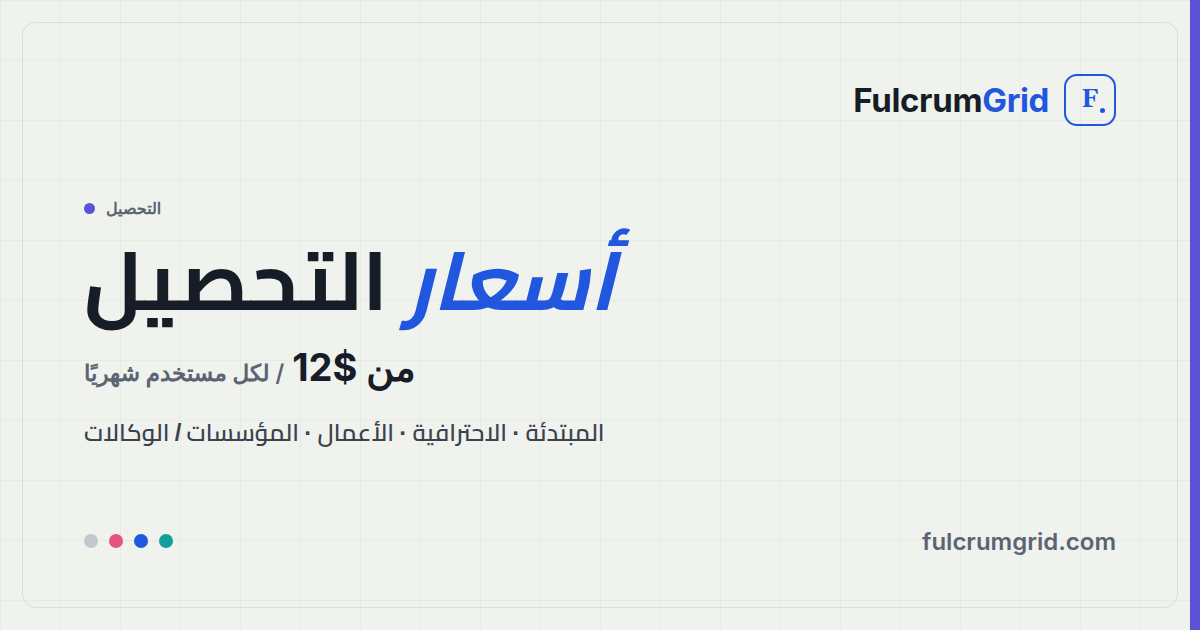
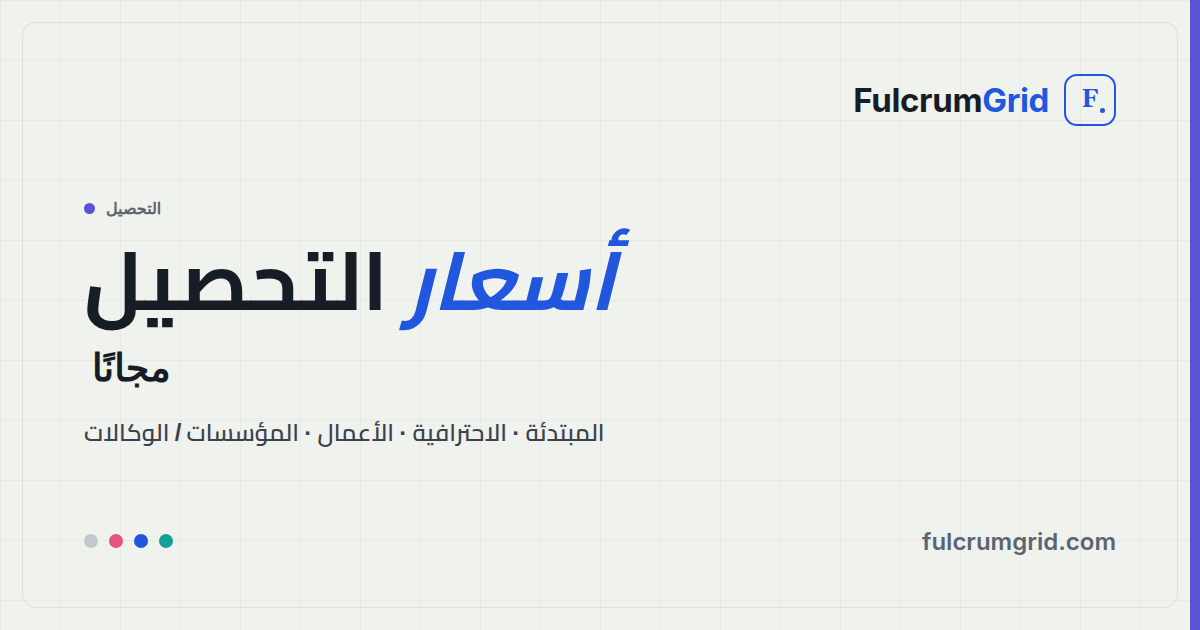
Propagate real pricing to product pages, pricing index, llms.txt & OG
The pricing pages were fixed earlier, but the same numbers appear in several
other surfaces that still showed the old values. Bring them all in line with
the product code catalogs:

- products/hr-suite (EN+AR): teaser SAR 15 -> SAR 5, "Essentials plan" ->
  "Starter plan", bullets to Starter modules, JSON-LD Offer price 15 -> 5.
- products/collection (EN+AR): teaser was a stale $12/user (USD); now "Free"
  (Starter), tagline notes paid plans from SAR 370/mo, JSON-LD 12 USD -> 0 SAR.
- pricing/index (EN+AR): HR card SAR 15 -> SAR 5 with Starter bullets;
  Collection card $12/user -> Free; billing FAQ/note no longer says
  "per user" (no app is per-user — flat, per seat, or per workspace).
- llms.txt: HR + Collection plan names/prices updated.
- gen_og.py + regenerated og-pricing-{hr-suite,collection}{,-ar}.png.

Command Center unchanged (already correct at SAR 490).

Claude-Session: https://claude.ai/code/session_01Bzy4vRqsyWF18wuk7NZLPd

Changed region(s): [[0.0617, 0.5429, 0.3392, 0.6333]]

diff --git a/ar/pricing/index.html b/ar/pricing/index.html
@@ -67,7 +67,7 @@
       {"@type": "Question", "name": "هل يمكنني البدء بتطبيق واحد فقط؟", "acceptedAnswer": {"@type": "Answer", "text": "نعم. خطة المبتدئة مصمّمة لتطبيق واحد — اختر مركز القيادة أو التحصيل أو الموارد البشرية وأضِف الباقي متى شئت."}},
       {"@type": "Question", "name": "هل يمكنني إضافة تطبيقات لاحقًا؟", "acceptedAnswer": {"@type": "Answer", "text": "بالتأكيد. اعتمد أي تطبيق من FulcrumGrid متى شئت — ابدأ بواحد وأضِف المزيد مع الوقت، بالوتيرة التي تناسبك."}},
       {"@type": "Question", "name": "هل توجد تجربة مجانية؟", "acceptedAnswer": {"@type": "Answer", "text": "كل خطة تشمل تجربة مجانية لمدة ١٤ يومًا بكامل الميزات، دون الحاجة إلى بطاقة ائتمان للبدء."}},
-      {"@type": "Question", "name": "كيف تعمل الفوترة؟", "acceptedAnswer": {"@type": "Answer", "text": "تُحتسب الخطط لكل مستخدم شهريًا. انتقل إلى الدفع السنوي لتوفّر ٢٠٪. يمكنك تغيير الخطة أو عدد المستخدمين في أي وقت."}},
+      {"@type": "Question", "name": "كيف تعمل الفوترة؟", "acceptedAnswer": {"@type": "Answer", "text": "لكل تطبيق طريقة فوترة شهرية خاصة به — ثابتة لكل مؤسسة أو لكل مقعد أو لكل مساحة عمل. انتقل إلى الدفع السنوي لتوفّر ٢٠٪. يمكنك تغيير الخطة في أي وقت."}},
       {"@type": "Question", "name": "هل تقدّمون خصومات؟", "acceptedAnswer": {"@type": "Answer", "text": "نقدّم أسعارًا خاصة للجمعيات غير الربحية والمؤسسات التعليمية والشركات الناشئة المبكرة. تواصل معنا لنساعدك في إيجاد الأنسب."}}
     ]
   }
@@ -161,7 +161,7 @@
               <div class="price-name">التحصيل</div>
               <p class="price-tagline">الذمم المدينة والمدفوعات تحت السيطرة.</p>
             </div>
-            <div class="price-amount"><span class="per">من </span><span class="num" data-amt="12" data-base="USD">$12</span><span class="per">/ لكل مستخدم شهريًا</span></div>
+            <div class="price-amount"><span class="num">مجانًا</span></div>
             <ul class="price-features">
               <li>تتبّع الفواتير ودفتر الأستاذ</li>
               <li>تذكيرات وخطط آلية</li>
@@ -176,17 +176,17 @@
               <div class="price-name">منظومة الموارد البشرية</div>
               <p class="price-tagline">عمليات الأفراد من التعيين إلى التقاعد.</p>
             </div>
-            <div class="price-amount"><span class="per">من </span><span class="num" data-amt="15" data-base="SAR">SAR 15</span><span class="per">/ لكل مقعد شهريًا</span></div>
+            <div class="price-amount"><span class="per">من </span><span class="num" data-amt="5" data-base="SAR">SAR 5</span><span class="per">/ لكل مقعد شهريًا</span></div>
             <ul class="price-features">
-              <li>سجلّات الموظفين والتأهيل</li>
-              <li>الرواتب وتتبّع الوقت</li>
-              <li>الأداء والتقييمات</li>
+              <li>الموارد البشرية الأساسية والإجازات</li>
+              <li>النفقات وخطابات الموارد البشرية</li>
+              <li>الإعلانات والتقدير</li>
               <li>دعم عبر البريد</li>
             </ul>
             <a class="btn btn-outline btn-lg" href="/ar/pricing/hr-suite/">اطّلع على الخطط</a>
           </div>
         </div>
-        <p class="price-note">لكل تطبيق طريقة تسعير خاصة به — ثابت أو لكل مقعد أو لكل مستخدم. الدفع السنوي يوفّر ٢٠٪. كل تطبيق يشمل تجربة مجانية لمدة ١٤ يومًا.</p>
+        <p class="price-note">لكل تطبيق طريقة تسعير خاصة به — ثابت أو لكل مقعد أو لكل مساحة عمل. الدفع السنوي يوفّر ٢٠٪. كل تطبيق يشمل تجربة مجانية لمدة ١٤ يومًا.</p>
       </div>
     </section>
 
@@ -244,7 +244,7 @@
           <details class="faq-item"><summary>هل يمكنني البدء بتطبيق واحد فقط؟</summary><p>نعم. كل تطبيق له سعره الخاص، فيمكنك الاشتراك في مركز القيادة أو التحصيل أو الموارد البشرية وحده وإضافة الباقي متى شئت.</p></details>
           <details class="faq-item"><summary>هل يمكنني إضافة تطبيقات لاحقًا؟</summary><p>بالتأكيد. اعتمد أي تطبيق من FulcrumGrid متى شئت — ابدأ بواحد وأضِف المزيد مع الوقت، بالوتيرة التي تناسبك.</p></details>
           <details class="faq-item"><summary>هل توجد تجربة مجانية؟</summary><p>كل خطة تشمل تجربة مجانية لمدة ١٤ يومًا بكامل الميزات، دون الحاجة إلى بطاقة ائتمان للبدء.</p></details>
-          <details class="faq-item"><summary>كيف تعمل الفوترة؟</summary><p>تُحتسب الخطط لكل مستخدم شهريًا. انتقل إلى الدفع السنوي لتوفّر ٢٠٪. يمكنك تغيير الخطة أو عدد المستخدمين في أي وقت.</p></details>
+          <details class="faq-item"><summary>كيف تعمل الفوترة؟</summary><p>لكل تطبيق طريقة فوترة شهرية خاصة به — ثابتة لكل مؤسسة أو لكل مقعد أو لكل مساحة عمل. انتقل إلى الدفع السنوي لتوفّر ٢٠٪. يمكنك تغيير الخطة في أي وقت.</p></details>
           <details class="faq-item"><summary>هل تقدّمون خصومات؟</summary><p>نقدّم أسعارًا خاصة للجمعيات غير الربحية والمؤسسات التعليمية والشركات الناشئة المبكرة. تواصل معنا لنساعدك في إيجاد الأنسب.</p></details>
         </div>
       </div>

diff --git a/pricing/index.html b/pricing/index.html
@@ -64,7 +64,7 @@
       {"@type": "Question", "name": "Can I start with just one app?", "acceptedAnswer": {"@type": "Answer", "text": "Yes. The Starter plan is designed for a single app — pick Command Center, Collection, or HR Suite and add the rest whenever you're ready."}},
       {"@type": "Question", "name": "Can I add apps later?", "acceptedAnswer": {"@type": "Answer", "text": "Absolutely. Adopt any FulcrumGrid app whenever you're ready — start with one and add more over time, at your own pace."}},
       {"@type": "Question", "name": "Is there a free trial?", "acceptedAnswer": {"@type": "Answer", "text": "Every plan includes a 14-day free trial with full features. No credit card required to start."}},
-      {"@type": "Question", "name": "How does billing work?", "acceptedAnswer": {"@type": "Answer", "text": "Plans are billed per user, per month. Switch to annual billing to save 20%. You can change plans or user counts at any time."}},
+      {"@type": "Question", "name": "How does billing work?", "acceptedAnswer": {"@type": "Answer", "text": "Each app is billed monthly its own way — flat per organization, per seat, or per workspace. Switch to annual billing to save 20%. You can change plans at any time."}},
       {"@type": "Question", "name": "Do you offer discounts?", "acceptedAnswer": {"@type": "Answer", "text": "We offer special pricing for nonprofits, educational institutions, and early-stage startups. Reach out and we'll help find the right fit."}}
     ]
   }
@@ -158,7 +158,7 @@
               <div class="price-name">Collection</div>
               <p class="price-tagline">Receivables and payments, handled.</p>
             </div>
-            <div class="price-amount"><span class="per">from </span><span class="num" data-amt="12" data-base="USD">$12</span><span class="per">/ user / month</span></div>
+            <div class="price-amount"><span class="num">Free</span></div>
             <ul class="price-features">
               <li>Invoice &amp; ledger tracking</li>
               <li>Automated reminders &amp; plans</li>
@@ -173,17 +173,17 @@
               <div class="price-name">HR Suite</div>
               <p class="price-tagline">People operations, hire to retire.</p>
             </div>
-            <div class="price-amount"><span class="per">from </span><span class="num" data-amt="15" data-base="SAR">SAR 15</span><span class="per">/ seat / month</span></div>
+            <div class="price-amount"><span class="per">from </span><span class="num" data-amt="5" data-base="SAR">SAR 5</span><span class="per">/ seat / month</span></div>
             <ul class="price-features">
-              <li>Employee records &amp; onboarding</li>
-              <li>Payroll &amp; time tracking</li>
-              <li>Performance &amp; reviews</li>
+              <li>Core HR &amp; time off</li>
+              <li>Expenses &amp; HR letters</li>
+              <li>Announcements &amp; recognition</li>
               <li>Email support</li>
             </ul>
             <a class="btn btn-outline btn-lg" href="/pricing/hr-suite/">See plans</a>
           </div>
         </div>
-        <p class="price-note">Each app is priced its own way — flat, per seat, or per user. Annual billing saves 20%. Every app includes a 14-day free trial.</p>
+        <p class="price-note">Each app is priced its own way — flat, per seat, or per workspace. Annual billing saves 20%. Every app includes a 14-day free trial.</p>
       </div>
     </section>
 
@@ -241,7 +241,7 @@
           <details class="faq-item"><summary>Can I start with just one app?</summary><p>Yes. Every app is priced on its own, so you can subscribe to just Command Center, Collection, or HR Suite and add the rest whenever you're ready.</p></details>
           <details class="faq-item"><summary>Can I add apps later?</summary><p>Absolutely. Adopt any FulcrumGrid app whenever you're ready — start with one and add more over time, at your own pace.</p></details>
           <details class="faq-item"><summary>Is there a free trial?</summary><p>Every plan includes a 14-day free trial with full features. No credit card required to start.</p></details>
-          <details class="faq-item"><summary>How does billing work?</summary><p>Plans are billed per user, per month. Switch to annual billing to save 20%. You can change plans or user counts at any time.</p></details>
+          <details class="faq-item"><summary>How does billing work?</summary><p>Each app is billed monthly its own way — flat per organization, per seat, or per workspace. Switch to annual billing to save 20%. You can change plans at any time.</p></details>
           <details class="faq-item"><summary>Do you offer discounts?</summary><p>We offer special pricing for nonprofits, educational institutions, and early-stage startups. Reach out and we'll help find the right fit.</p></details>
         </div>
       </div>

diff --git a/ar/products/hr-suite/index.html b/ar/products/hr-suite/index.html
@@ -71,7 +71,7 @@
     "url": "https://fulcrumgrid.com/ar/products/hr-suite/",
     "image": "https://fulcrumgrid.com/assets/og/og-hr-suite.png",
     "publisher": { "@id": "https://fulcrumgrid.com/#organization" },
-    "offers": { "@type": "Offer", "price": "15", "priceCurrency": "SAR", "url": "https://fulcrumgrid.com/ar/pricing/hr-suite/" }
+    "offers": { "@type": "Offer", "price": "5", "priceCurrency": "SAR", "url": "https://fulcrumgrid.com/ar/pricing/hr-suite/" }
   }
   </script>
 </head>
@@ -149,17 +149,17 @@
         <div class="fg-priceblock">
           <div class="fg-priceblock-main">
             <p class="eyebrow">أسعار الموارد البشرية</p>
-            <div class="price-amount"><span class="num" data-amt="15" data-base="SAR">SAR 15</span><span class="per">/ لكل مقعد شهريًا</span></div>
-            <p class="price-tagline">تُحتسب لكل مقعد نشِط (خطة الأساسيات). تجربة مجانية ١٤ يومًا دون بطاقة.</p>
+            <div class="price-amount"><span class="num" data-amt="5" data-base="SAR">SAR 5</span><span class="per">/ لكل مقعد شهريًا</span></div>
+            <p class="price-tagline">تُحتسب لكل مقعد نشِط (خطة المبتدئة). تجربة مجانية ١٤ يومًا دون بطاقة.</p>
             <div class="product-hero-actions">
               <a class="btn btn-primary" href="/ar/contact/">ابدأ تجربة مجانية</a>
               <a class="btn btn-outline" href="/ar/pricing/hr-suite/">اطّلع على كل الأسعار ↗</a>
             </div>
           </div>
           <ul class="price-features">
-            <li>سجلّات الموظفين والتأهيل</li>
-            <li>الرواتب وتتبّع الوقت</li>
-            <li>الأداء والتقييمات</li>
+            <li>الموارد البشرية الأساسية والإجازات</li>
+            <li>النفقات وخطابات الموارد البشرية</li>
+            <li>الإعلانات والتقدير وفترة التجربة</li>
             <li>دعم عبر البريد</li>
           </ul>
         </div>

diff --git a/products/hr-suite/index.html b/products/hr-suite/index.html
@@ -69,7 +69,7 @@
     "url": "https://fulcrumgrid.com/products/hr-suite/",
     "image": "https://fulcrumgrid.com/assets/og/og-hr-suite.png",
     "publisher": { "@id": "https://fulcrumgrid.com/#organization" },
-    "offers": { "@type": "Offer", "price": "15", "priceCurrency": "SAR", "url": "https://fulcrumgrid.com/pricing/hr-suite/" }
+    "offers": { "@type": "Offer", "price": "5", "priceCurrency": "SAR", "url": "https://fulcrumgrid.com/pricing/hr-suite/" }
   }
   </script>
 </head>
@@ -149,17 +149,17 @@
         <div class="fg-priceblock">
           <div class="fg-priceblock-main">
             <p class="eyebrow">HR Suite pricing</p>
-            <div class="price-amount"><span class="num" data-amt="15" data-base="SAR">SAR 15</span><span class="per">/ seat / month</span></div>
-            <p class="price-tagline">Billed per active seat (Essentials plan). 14-day free trial, no card required.</p>
+            <div class="price-amount"><span class="num" data-amt="5" data-base="SAR">SAR 5</span><span class="per">/ seat / month</span></div>
+            <p class="price-tagline">Billed per active seat (Starter plan). 14-day free trial, no card required.</p>
             <div class="product-hero-actions">
               <a class="btn btn-primary" href="/contact/">Start free trial</a>
               <a class="btn btn-outline" href="/pricing/hr-suite/">See full pricing ↗</a>
             </div>
           </div>
           <ul class="price-features">
-            <li>Employee records &amp; onboarding</li>
-            <li>Payroll &amp; time tracking</li>
-            <li>Performance &amp; reviews</li>
+            <li>Core HR &amp; time off</li>
+            <li>Expenses &amp; HR letters</li>
+            <li>Announcements, recognition &amp; probation</li>
             <li>Email support</li>
           </ul>
         </div>

diff --git a/ar/products/collection/index.html b/ar/products/collection/index.html
@@ -71,7 +71,7 @@
     "url": "https://fulcrumgrid.com/ar/products/collection/",
     "image": "https://fulcrumgrid.com/assets/og/og-collection.png",
     "publisher": { "@id": "https://fulcrumgrid.com/#organization" },
-    "offers": { "@type": "Offer", "price": "12", "priceCurrency": "USD", "url": "https://fulcrumgrid.com/ar/pricing/collection/" }
+    "offers": { "@type": "Offer", "price": "0", "priceCurrency": "SAR", "url": "https://fulcrumgrid.com/ar/pricing/collection/" }
   }
   </script>
 </head>
@@ -149,8 +149,8 @@
         <div class="fg-priceblock">
           <div class="fg-priceblock-main">
             <p class="eyebrow">أسعار التحصيل</p>
-            <div class="price-amount"><span class="num" data-amt="12" data-base="USD">$12</span><span class="per">/ لكل مستخدم شهريًا</span></div>
-            <p class="price-tagline">تُحتسب لكل مستخدم. تجربة مجانية ١٤ يومًا دون بطاقة.</p>
+            <div class="price-amount"><span class="num">مجانًا</span></div>
+            <p class="price-tagline">الخطة المبتدئة مجانية — الخطط المدفوعة من SAR 370 شهريًا.</p>
             <div class="product-hero-actions">
               <a class="btn btn-primary" href="/ar/contact/">ابدأ تجربة مجانية</a>
               <a class="btn btn-outline" href="/ar/pricing/collection/">اطّلع على كل الأسعار ↗</a>

diff --git a/products/collection/index.html b/products/collection/index.html
@@ -69,7 +69,7 @@
     "url": "https://fulcrumgrid.com/products/collection/",
     "image": "https://fulcrumgrid.com/assets/og/og-collection.png",
     "publisher": { "@id": "https://fulcrumgrid.com/#organization" },
-    "offers": { "@type": "Offer", "price": "12", "priceCurrency": "USD", "url": "https://fulcrumgrid.com/pricing/collection/" }
+    "offers": { "@type": "Offer", "price": "0", "priceCurrency": "SAR", "url": "https://fulcrumgrid.com/pricing/collection/" }
   }
   </script>
 </head>
@@ -149,8 +149,8 @@
         <div class="fg-priceblock">
           <div class="fg-priceblock-main">
             <p class="eyebrow">Collection pricing</p>
-            <div class="price-amount"><span class="num" data-amt="12" data-base="USD">$12</span><span class="per">/ user / month</span></div>
-            <p class="price-tagline">Billed per user. 14-day free trial, no card required.</p>
+            <div class="price-amount"><span class="num">Free</span></div>
+            <p class="price-tagline">Starter is free — paid plans from SAR 370 / month.</p>
             <div class="product-hero-actions">
               <a class="btn btn-primary" href="/contact/">Start free trial</a>
               <a class="btn btn-outline" href="/pricing/collection/">See full pricing ↗</a>

diff --git a/scripts/build/gen_og.py b/scripts/build/gen_og.py
@@ -17,18 +17,18 @@ APPS = {
            plans='التجريبية · النمو · المؤسسات')),
  'collection': dict(accent='#5b53d6',
    en=dict(eyebrow='COLLECTION', app='Collection',
-           price='From $12', per='/ user / month',
+           price='Free', per='',
            plans='Starter · Professional · Business · Enterprise / Agency'),
    ar=dict(eyebrow='التحصيل', app='التحصيل',
-           price='من $12', per='/ لكل مستخدم شهريًا',
+           price='مجانًا', per='',
            plans='المبتدئة · الاحترافية · الأعمال · المؤسسات / الوكالات')),
  'hr-suite': dict(accent='#e5537f',
    en=dict(eyebrow='HR SUITE', app='HR Suite',
-           price='From SAR 15', per='/ seat / month',
-           plans='Essentials · Operations · Payroll & Compliance · Enterprise'),
+           price='From SAR 5', per='/ seat / month',
+           plans='Starter · Growth · Enterprise'),
    ar=dict(eyebrow='منظومة الموارد البشرية', app='الموارد البشرية',
-           price='من SAR 15', per='/ لكل مقعد شهريًا',
-           plans='الأساسية · العمليات · الرواتب والامتثال · المؤسسات')),
+           price='من SAR 5', per='/ لكل مقعد شهريًا',
+           plans='المبتدئة · النمو · المؤسسات')),
 }
 
 # EN: "{App} pricing" with pricing cobalt. AR: "أسعار {App}" with أسعار cobalt.
